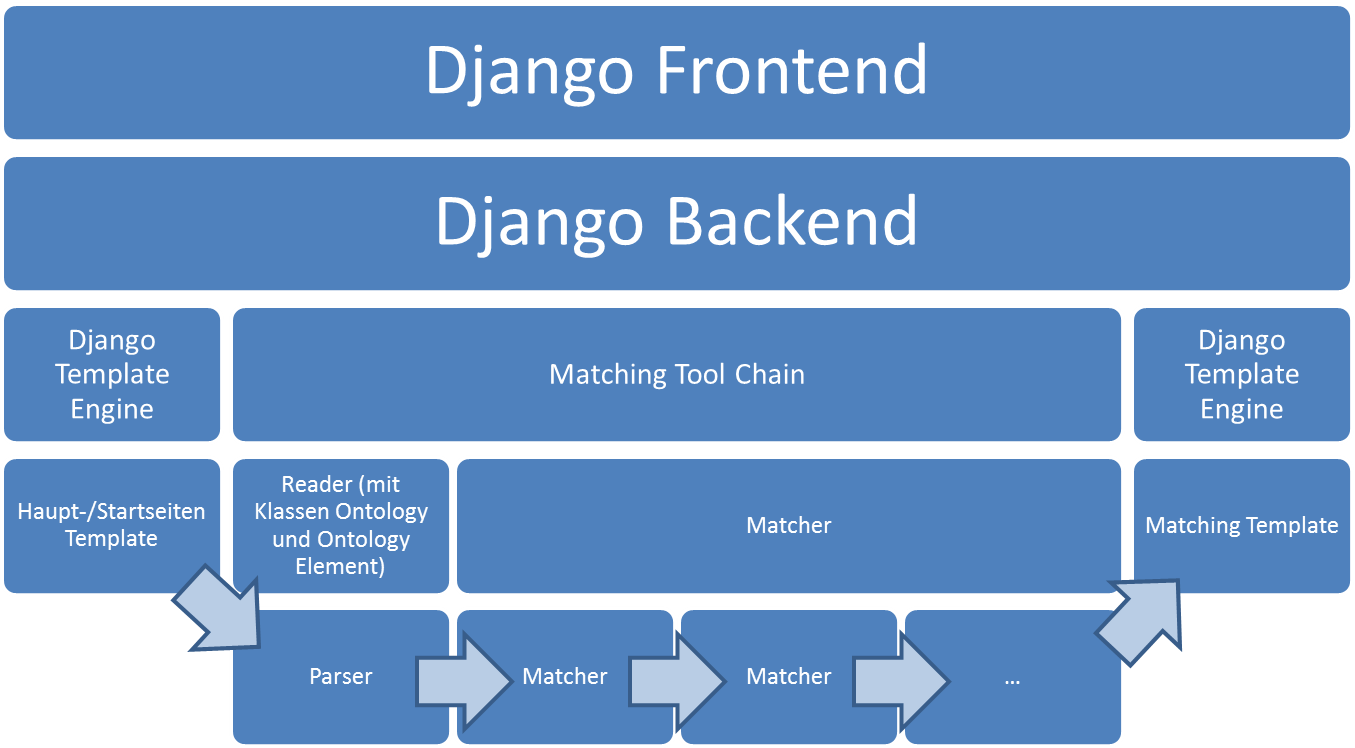
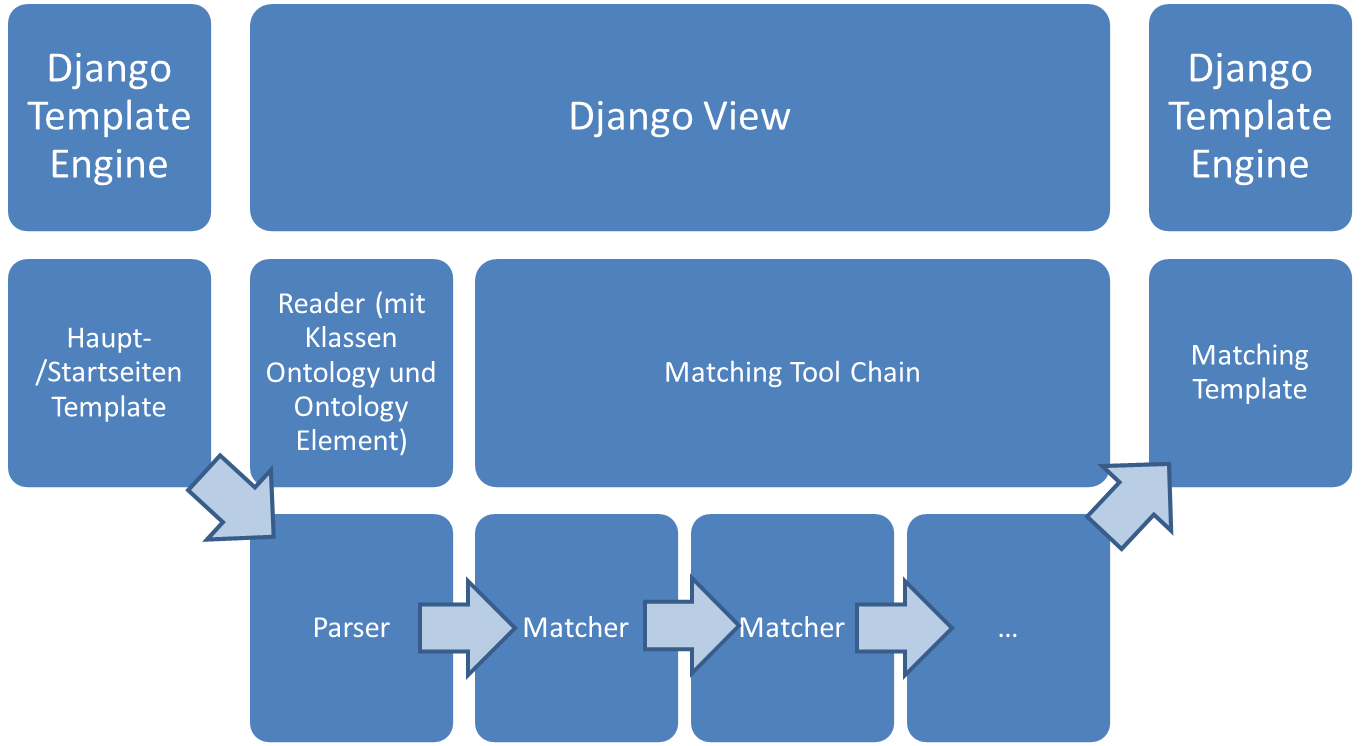
added and fixed text, remoed old images

diff --git a/chapters3.tex b/chapters3.tex
@@ -85,7 +85,6 @@
 		\begin{table}[h!]
 		\small
 		\setlength\tabcolsep{2pt}
-		\caption{Kategorisierte Ergebnisse}
 		\noindent\makebox[\textwidth]{
 			\begin{tabular}{|c|c|c|c|c|c|c|}\hline
 			Matching Algorithmus von & Gleich & Gegenteil & Indirekt & Ähnlich & Keine &
@@ -96,6 +95,7 @@
 			(23,86\%) & 10 (11,36\%) \\\hline
 			\end{tabular}
 		}
+		\caption{Kategorisierte Ergebnisse}
 		\end{table}
 		\end{center}
 		Alle Prozentangaben in der Tabelle wurden abgerundet.\\
@@ -107,7 +107,7 @@
 		\label{fig16}
 		\end{figure}
 		
-		\subsection{Fazit und Verbesserungen des Simple Ontology Matchers}
+		\subsection{Fazit und Verbesserungen}
 		Als erstes wurde für die gleichen Elemente, also solche mit gleicher URI, ein
 		eigener Matcher geschrieben und als Bedingung in die anderen Matcher
 		aufgenommen, dass die URI nicht mehr gleich sein darf. Dadurch können diese
@@ -146,7 +146,7 @@
 		verglichen. Für diese Evaluation wurden Ergebnisse verschiedener Matcher mit
 		der Referenz abgeglichen und Precision und Recall berechnet.\\
 		
-		\subsubsection{Simple Ontology Matcher}
+		\subsection{Simple Ontology Matcher}
 		Da es bei diesem Matcher zwei mögliche Einstellungen gibt, wurden beide
 		getrennt getestet. Wenn nur exakt gleiche Labels als Matching ausgewählt
 		wurden, fand dieser Matcher 933 Paare. Von diesen waren lediglich 3 nicht in
@@ -158,14 +158,14 @@
 		\begin{center}
 		\begin{table}[h!]
 		\small
-		\caption{Vergleich 1 Simple Ontology Matcher OAEI16 Referenz}
 		\noindent\makebox[\textwidth]{
 			\begin{tabular}{|c|c|c|c|c|}\hline
-			Gefunden insgesamt & davon nicht in Referenz & Aus Referenz nicht gefunden &
-			Precision & Recall \\\hline
+			Gefunden & davon nicht & Aus Referenz &
+			Precision & Recall\\ insgesamt & in Referenz & nicht gefunden & & \\\hline
 			933 & 3 & 586 & 99,68\% & 62,35\% \\\hline
 			\end{tabular}
 		}
+		\caption{Vergleich 1 Simple Ontology Matcher OAEI16 Referenz}
 		\end{table}
 		\end{center}
 		Wenn man die Ergebnisse nicht nur auf exakte Matchings beschränkt (siehe
@@ -175,14 +175,14 @@
 		\begin{center}
 		\begin{table}[h!]
 		\small
-		\caption{Vergleich 2 Simple Ontology Matcher OAEI16 Referenz}
 		\noindent\makebox[\textwidth]{
 			\begin{tabular}{|c|c|c|c|c|}\hline
-			Gefunden insgesamt & davon nicht in Referenz & Aus Referenz nicht gefunden &
-			Precision & Recall \\\hline
-			5306 & 4274 & 484 & 19,46\% & 68,07\% \\\hline
+			Gefunden & davon nicht & Aus Referenz &
+			Precision & Recall\\ insgesamt & in Referenz & nicht gefunden & & \\\hline
+			5306 & 4274 & 1436 & 10,09\% & 5,28\% \\\hline
 			\end{tabular}
 		}
+		\caption{Vergleich 2 Simple Ontology Matcher OAEI16 Referenz}
 		\end{table}
 		\end{center}
 		
@@ -221,25 +221,74 @@
 		\begin{center}
 		\begin{table}[h!]
 		\small
-		\caption{Vergleich 3 Simple Ontology Matcher OAEI16 Referenz}
 		\noindent\makebox[\textwidth]{
 			\begin{tabular}{|c|c|c|c|c|}\hline
-			Gefunden insgesamt & true positives & false positives & nicht verifizierbar & Precision \\\hline
-			4274 & 3943 & 222 & 109 & 92,3\% \\\hline
+			Gefunden & true & false & nicht verifizierbar &
+			Precision (nur true\\ insgesamt & positives & positives & & und false
+			positives) \\\hline 4274 & 3943 & 222 & 109 & 94,67\% \\\hline
 			\end{tabular}
 		}
+		\caption{Vergleich 3 Simple Ontology Matcher OAEI16 Referenz}
 		\end{table}
 		\end{center}
 		Der Recall ist in diesem Fall nicht ohne weiteres bestimmbar, da hier die
 		Richtschnur ein "`perfekter Match"' zwischen den zwei Ontologien wäre.
 		Der Transparenz wegen sind die vollständigen Ergebnisse und ihre Zuteilung auf
 		\url{insert.link} aufgeführt, aus Platzgründen ist diese Auflistung nicht in
-		dieser Arbeit enthalten.\\
-		Andere Matcher wurden nicht in diesem Rahmen betrachtet, da erste Tests mit
+		dieser Arbeit enthalten.
+		
+		\subsection{Levenshtein Distance Matcher}
+		Der zweite Matcher, der in der Evaluation benutzt wurde, ist der Levenshtein
+		Distance Matcher. In vorherigen Tests hat er akzeptable Ergebnisse geliefert.
+		Wenn man auch hier die zusätzlich gefundenen Ergebnisse pauschal als false
+		positives einstuft, ergeben sich folgende Werte (alle Prozentangaben in der
+		Tabelle wurden wieder mathematisch gerundet).
+		\begin{center}
+		\begin{table}[h!]
+		\small
+		\noindent\makebox[\textwidth]{
+			\begin{tabular}{|c|c|c|c|c|}\hline
+			Gefunden & davon nicht & Aus Referenz &
+			Precision & Recall\\ insgesamt & in Referenz & nicht gefunden & & \\\hline
+			793 & 713 & 1436 & 10,09\% & 5,28\% \\\hline
+			\end{tabular}
+		}
+		\caption{Vergleich 1 Levenshtein Distance Matcher OAEI16 Referenz}
+		\end{table}
+		\end{center}
+		Die Werte zeichnen ein miserables Bild und es zeigt sich, dass der Levenshtein
+		Distance Matcher für diese Domäne absolut ungeeignet ist. Bei Betrachtung der
+		713 zusätzlich gefundenen Matchings bestätigt sich diese Annahme. Aus diesen
+		Daten ergeben sich folgende Werte
+		\begin{center}
+		\begin{table}[h!]
+		\small
+		\noindent\makebox[\textwidth]{
+			\begin{tabular}{|c|c|c|c|c|}\hline
+			Gefunden & true & false & nicht verifizierbar &
+			Precision (nur true\\ insgesamt & positives & positives & &und false
+			positives) \\\hline 793 & 51 & 658 & 4 & 7,13\% \\\hline
+			\end{tabular}
+		}
+		\caption{Vergleich 2 Levenshtein Distance Matcher OAEI16 Referenz}
+		\end{table}
+		\end{center}
+		Typische korrekte Matchings sind \url{http://human.owl#NCI_C52834}
+		(Hand\textunderscore Digit\textunderscore 1) und
+		\url{http://mouse.owl#MA_0000041} (hand digit). Derartige Ergebnisse werden
+		aber schon vom Simple Label Matcher gefunden. Häufige false positives sind
+		z. B. \url{http://human.owl#NCI_C12456} (Diencephalon) und
+		\url{http://mouse.owl#MA_0000183} (telencephalon) oder
+		\url{http://human.owl#NCI_C32391} (Costal\textunderscore Cartilage) und
+		\url{http://mouse.owl#MA_0001883} (nasal cartilage). Die nötigen Änderungen,
+		um ein Label in das andere zu überführen, sind gering, aber die Elemente haben
+		nichts miteinander zu tun. Dies zeigt, dass das verwendete Vokabular der
+		Ontologien bei diesem Matcher sehr wichtig ist.\\
+		Andere Matcher wurden in diesem Rahmen nicht betrachtet, da erste Tests mit
 		ihnen schon vorher keine zufriedenstellenden Ergebnisse mit dem gewählten
 		Wörterbuch lieferten.
-		Dies ist darauf zurückzuführen, dass das Wörterbuch für die Domäne zu
-		allgemein ist und das in diesem Kontext benötigte Vokabular nicht in
-		ausreichendem Maße enthalten ist.
+		Dies ist darauf zurückzuführen, dass das Wörterbuch für die meisten
+		wissenschaftlichen Domänen zu allgemein ist und das in diesem Kontext
+		benötigte Vokabular nicht in ausreichendem Maße enthalten ist.
 		
 		\pagebreak[4]

diff --git a/chapters2.tex b/chapters2.tex
@@ -54,16 +54,24 @@
 		festgelegt werden. Diese werden ebenfalls mit den einzelnen Matchings
 		übergeben und später als Default Wert angezeigt. Die Gesamtergebnisse werden
 		dann an einen \textit{Output Writer} übergeben, um sie dann weiter bearbeiten zu können.\\
+		Sowohl die Reader als auch die Matcher Module haben Wrapper Module, die für
+		die Interaktion zwischen den verschiedenen Modulen zuständig sind. Der
+		Großteil der Programmlogik, der für die Verarbeitung des Input, also der
+		Ontologien und der Matchings, benötigt wird, ist aber in den Readern und
+		Matchern selbst enthalten. Die Wrapper Module enthalten nur ausreichend Logik,
+		um die entsprechenden Module dynamisch einzubinden und den Input weiterzureichen.
 		
 		\cleardoublepage
 		\pagebreak[4]
 		
 		\subsection{Anwendungsszenario 1: Django App}
 		Um von nichttechnischen Experten leicht und ohne zusätzlichen Aufwand
-		benutzbar zu sein, kann man die Module des Simple Ontology Matcher als App
-		einer Django Installation verwenden. Dann werden über ein
+		benutzbar zu sein, kann man die Module des Simple Ontology Matchers als App
+		einer Django Installation verwenden. Die involvierten Module und der
+		Pfad, der bei einem Matching Prozess durchlaufen wird, ist in Abbildung
+		\ref{fig3} abgebildet. Über ein
 		Skript\footnote{SimpleOntologyMatcher/OntologyMatcher/settings.py} von Django
-		mögliche Ontologien und Matcher gesammelt.
+		werden mögliche Ontologien und Matcher gesammelt.
 		
 		\begin{figure}[h!]
 		\centering
@@ -72,7 +80,7 @@
 		\label{fig3}
 		\end{figure}
 		
-		Dabei können, wie erwähnt, verschiedene Quellen verwendet werden. Für
+		Beim Prozess können, wie erwähnt, verschiedene Quellen verwendet werden. Für
 		Ontologien sind lokale und auf externen Servern gespeicherte Dateien und in
 		Datenbanken eingepflegte Daten möglich. Bei Matchern werden nur lokal
 		vorhandene Python Module berücksichtigt. Die gefundenen Ontologien und Matcher werden dann in
@@ -83,10 +91,13 @@
 		
 		Über die dann erstellte Seite können Ontologien, die
 		analyisert werden sollen, ausgewählt werden und Matcher, mit denen dies durchgeführt wird.\\
-		Das Design ist möglichst simpel gewählt, wie in \ref{fig3} gezeigt. Es gibt
+		Das Design ist möglichst simpel gewählt, wie in \ref{fig4} gezeigt. Es gibt
 		keine Menüs oder Einstellmöglichkeiten, sondern es können nur
 		lokale oder externe Ontologien und Matcher ausgewählt
-		werden. Ontologien können dabei aus verschiedenen Quellen stammen. Aktuell
+		werden. Die simple Oberfläche verbirgt auch die Komplexität, die im Backend
+		und den Matching Algorithmen steckt, da sie für den nichttechnischen Experten
+		nur bedingt von Interesse ist.\\
+		Ontologien können dabei aus verschiedenen Quellen stammen. Aktuell
 		sind lokal auf dem Server gespeicherte und externe Ontologien, wie
 		die Terminologien vom GFBio Terminology
 		Server\footnote{\url{http://terminologies.gfbio.org/}} als Quellen festgelegt.
@@ -97,6 +108,8 @@
 		wird. Es ist keine Installation oder Konfiguration für den Anwender nötig,
 		insbesondere wird außer einem Browser keine zusätzliche Software beim Anwender
 		vorausgesetzt.
+		
+		\pagebreak[4]
 		
 		\subsection{Matching Prozessablauf}
 		Auf den nächsten Seiten wird beispielhaft und mit Bildern der Matching Prozess
@@ -109,8 +122,6 @@
 			\captionof{figure}{Startseite Django App}\label{fig4}
 		\end{minipage}
 		
-		\pagebreak[4]
-		
 		Zuerst werden zwei Ontologien aus beliebigen Quellen und ein oder
 		mehrere Matcher durch klicken auf die entsprechenden Buttons ausgewählt,
 		die in Abbildung \ref{fig5} hervorgehoben wurden.\\
@@ -119,7 +130,9 @@
 				\includegraphics[keepaspectratio=true,width=0.8\textwidth]{pics/SimpleOntologyMatcher-Process.png}}
 			\captionof{figure}{Matching Prozess Django App 1}\label{fig5}
 		\end{minipage}
-		\\
+		
+		\pagebreak[4]
+		
 		Die vom Benutzer ausgewählten Ontologien und Matcher werden
 		unten angezeigt, wie Abbildung \ref{fig6} dargestellt.
 		Dort können sie auch abgewählt werden, indem man auf die entsprechenden
@@ -149,8 +162,6 @@
 			\captionof{figure}{Matching Prozess Django App 4}\label{fig8}  
 		\end{minipage}
 		
-		\pagebreak[4]
-		
 		Dort werden, wie in Abbildung \ref{fig9} hervorgehoben, oben die ausgewählten
 		Ontologien angezeigt.\\
 		\begin{minipage}{\linewidth}
@@ -158,7 +169,9 @@
 				\includegraphics[keepaspectratio=true,width=1.0\textwidth]{pics/SimpleOntologyMatcher-Process4.png}}
 			\captionof{figure}{Matching Prozess Django App 5}\label{fig9}  
 		\end{minipage}
-		\\
+		
+		\pagebreak[4]
+		
 		Die Matchings sind in verschiedene Kategorien unterteilt, für
 		jeden Matcher eine, wie in Abbildung \ref{fig10} exemplarisch gezeigt.\\
 		\begin{minipage}{\linewidth}
@@ -166,9 +179,7 @@
 				\includegraphics[keepaspectratio=true,width=1.0\textwidth]{pics/SimpleOntologyMatcher-Process5.png}}
 			\captionof{figure}{Matching Prozess Django App 6}\label{fig10}  
 		\end{minipage}
-		
-		\pagebreak[4]
-		
+		\\
 		In den Kategorien sind die gefundenen Matchings aufgeführt, wie Abbildung
 		\ref{fig11} hervorhebt.\\
 		\begin{minipage}{\linewidth}
@@ -176,7 +187,9 @@
 				\includegraphics[keepaspectratio=true,width=1.0\textwidth]{pics/SimpleOntologyMatcher-Process6.png}}
 			\captionof{figure}{Matching Prozess Django App 7}\label{fig11}
 		\end{minipage}
-		\\
+		
+		\pagebreak[4]
+		
 		Die einzelnen Zeilen enthalten ein Matching Paar, wie in Abbildung \ref{fig12}
 		hervorgehoben. Angezeigt werden die URIs, die Labels, sofern vorhanden, eine
 		kurze Begründung, warum dieser Matcher dieses Matching vorschlägt.\\
@@ -185,9 +198,7 @@
 				\includegraphics[keepaspectratio=true,width=1.0\textwidth]{pics/SimpleOntologyMatcher-Process7.png}}
 			\captionof{figure}{Matching Prozess Django App 8}\label{fig12}  
 		\end{minipage}
-		
-		\pagebreak[4]
-		
+		\\
 		Zusätzlich gibt es ein Dropdown Menü, aus dem ausgewählt werden kann, wie und
 		ob eine Verbindung zwischen diesen zwei Elementen besteht, siehe Abbildung \ref{fig13}. Da es für
 		einige Matcher sinnvolle Verbindungstypen gibt, sind diese bereits als Default
@@ -200,7 +211,9 @@
 				\includegraphics[keepaspectratio=true,width=1.0\textwidth]{pics/SimpleOntologyMatcher-Process9.png}}
 			\captionof{figure}{Matching Prozess Django App 9}\label{fig13}  
 		\end{minipage}
-		\\
+		
+		\pagebreak[4]
+		
 		Durch einen Klick auf \textit{Save Results}, siehe Abbildung \ref{fig14}, kann
 		man die bestätigten Verbindungen und ihre Elemente in RDF XML exportieren. Matchings für die keine
 		Verbindung ausgewählt wurde, werden nicht gespeichert.\\

diff --git a/chapters.tex b/chapters.tex
@@ -53,28 +53,28 @@
 	Tokenisierung in ein gemeinsames Format überführen und dann mithilfe von
 	Gewichtung und Gleichheit in Relation setzen.
 	\begin{itemize}
-		\item Stringbasiert (String-based): Bei dieser Methode wird die Struktur von
+		\item Stringbasiert: Bei dieser Methode wird die Struktur von
 		Strings als Zeichenkette betrachtet. Konkret werden Techniken angewendet, die Ähnlichkeit
 		von Strings und deren Teilen bestimmen. Bekannte Methoden aus diesem Bereich
 		sind z. B. Normalisierung und Editierdistanz. \cite{EuzShv07}\\
 		Beispielsweise beträgt der Abstand der Elemente „author“ und „hasauthor“ 3,
 		nämlich den Zusatz „has“, sofern der Algorithmus erkennt, dass der hintere Teil gleich ist.
-		\item  Sprache basiert (Language-based): Hierbei werden Wörter als Texte
+		\item  Sprache basiert: Hierbei werden Wörter als Texte
 		betrachtet, d. h.
 		die Reihenfolge der Wörter in einer Sequenz wird einbezogen, ebenso die
 		Bedeutung dieser Wörter. Zur Analyse werden verschiedene Techniken angewandt,
 		um das Grundwort zu ermitteln. Dieses dient dann dazu, Ähnlichkeiten zwischen
-		den Wörtern zu finden. \cite{EuzShv07}\\
+		den Wörtern zu finden.\cite{EuzShv07}\\
 		Zum Beispiel, wenn man in einer Ontologie das Element „walk“ und in einer
 		anderen „walking“ hat, kann man „walking“ auf „walk“ reduzieren (z. B. durch
 		Stemming) und dadurch Matches finden.
-		\item Linguistische Analyse (Linguistic): Durch das Einbeziehen von externen
+		\item Linguistische Analyse: Durch das Einbeziehen von externen
 		linguistischen Quellen, wie z. B. Wiktionary, werden Strings interpretiert.
 		Beim bedeutungsbasierten Ansatz wird über \textit{Hyponyme} (begriffliche
 		Unterordnung), \textit{Hyperonyme} (Ober-/Überbegriff), \textit{Synonyme}
 		(gleiche Bedeutung) und \textit{Antonyme} (gegensätzliche Bedeutung) die
 		Bedeutung der Wörter festgestellt. Beim sprachbasierten Ansatz hingegen wird
-		der Abstand zu anderen Wörtern in Sätzen analysiert. \cite{EuzShv07}\\
+		der Abstand zu anderen Wörtern in Sätzen analysiert.\cite{EuzShv07}\\
 		Zum Beispiel kann man „creator“ als Oberbegriff von „author“ und
 		„illustrator“ auffassen.
 	\end{itemize}
@@ -85,7 +85,7 @@
 	Strukturen innerhalb der Ontologien. Dabei werden die Eigenschaften und die
 	Beziehung der Entitäten untereinander untersucht.
 	\begin{itemize}
-		\item Taxonomisches Mapping (Taxonomic structure): Dabei werden zwei Techniken
+		\item Taxonomisches Mapping: Dabei werden zwei Techniken
 		verwendet, \textit{super-} oder  \textit{subclass rule} und
 		\textit{bounded-paths}. Die \textit{super class rule} unterstellt, dass eine
 		Ähnlichkeit zwischen zwei Konzepten besteht, wenn diese ein Elternkonzept
@@ -96,13 +96,12 @@
 		„creator“ und „author“ ebenfalls ähnlich bzw. gleich sind. Bei bounded-paths
 		werden Pfade verglichen, um ähnliche Konzepte zu identifizieren. Bei diesen
 		Pfaden handelt es sich um Verbindungen zwischen Klassen. Die Art und Weise der
-		Verbindungen wird durch eine hierarchische Struktur definiert.
-		\cite{EuzShv07}\\
+		Verbindungen wird durch eine hierarchische Struktur definiert.\cite{EuzShv07}\\
 		Wenn das Attribut „book“ in zwei verschiedenen Ontologien
 		einmal mit „hasAuthor“ und einmal mit „hasWritten“ zu den beiden äquivalenten
 		Elementen „creator“ bzw. „author“ verbunden ist, dann bieten sich diese beiden
 		für eine Betrachtung bezüglich eines Matches an.
-		\item Baumbasiertes Mapping (Relations): Hierbei spielt Ähnlichkeit eine
+		\item Baumbasiertes Mapping: Hierbei spielt Ähnlichkeit eine
 		Rolle.
 		Es wird angenommen, dass sich Knoten, die benachbart sind, ähneln und dass
 		dies auch für verschiedene Ontologien gilt. Also wenn ein Knoten mit einem anderen

diff --git a/conclusion.tex b/conclusion.tex
@@ -44,14 +44,15 @@ bei der Verwendung zu laden und es wird vermieden, sie vorher importieren bzw.
 bekannt machen zu müssen. Weiterhin werden Ergebnisse und Daten zwischen den
 verschiedenen Modulen ausgetauscht, ohne dass die Grundmodule Logik über die
 Funktionsweise enthalten müssen. Diese beiden Punkte sorgen für hohe
-Modularität. Durch die geringe Menge an Interaktionen zwischen den Schichten, es
-werden nur einige Variablen weitergereicht, war die Entwicklung des Wrapper
-Teils nicht übermäßig kompliziert.\\
+Modularität.\\
 Das Frontend wird durch ein Django View umgesetzt. Dort werden die
 Nutzeranfragen entgegen genommen, verarbeitet und dann die Antwort
 präsentiert. Das Frontend greift dabei auf die Wrapper zurück, um die Eingaben
 entsprechend weiterzuleiten. Die konkrete Verarbeitung der Optionen wird dabei
-von den Wrappern durchgeführt.\\
+von den Wrappern durchgeführt. Das Design wurde auf das Minimum reduziert, damit
+der Nutzer sich auf die an ihn gestellte Aufgabe konzentrieren kann und sich nicht
+mit Optionen und Einstellungsmöglichkeiten beschäftigen muss. Dies verbirgt
+auch die Komplexität der Anwendung und der Matching Algorithmen.\\
 Die erste Art von Wrapper Modulen ist das \textit{Reader} Modul. Reader Module
 lesen Ontologien ein und überführen diese Daten in strukturierte Formate.
 Diese Datenformate bilden die Strukturen von Ontologien und deren Elementen ab

diff --git a/thesis_main.tex b/thesis_main.tex
@@ -51,6 +51,7 @@
 
 \usepackage{float}
 \usepackage{caption}
+\captionsetup[table]{position=below}
 
 %
 %---------------------------------------------------
